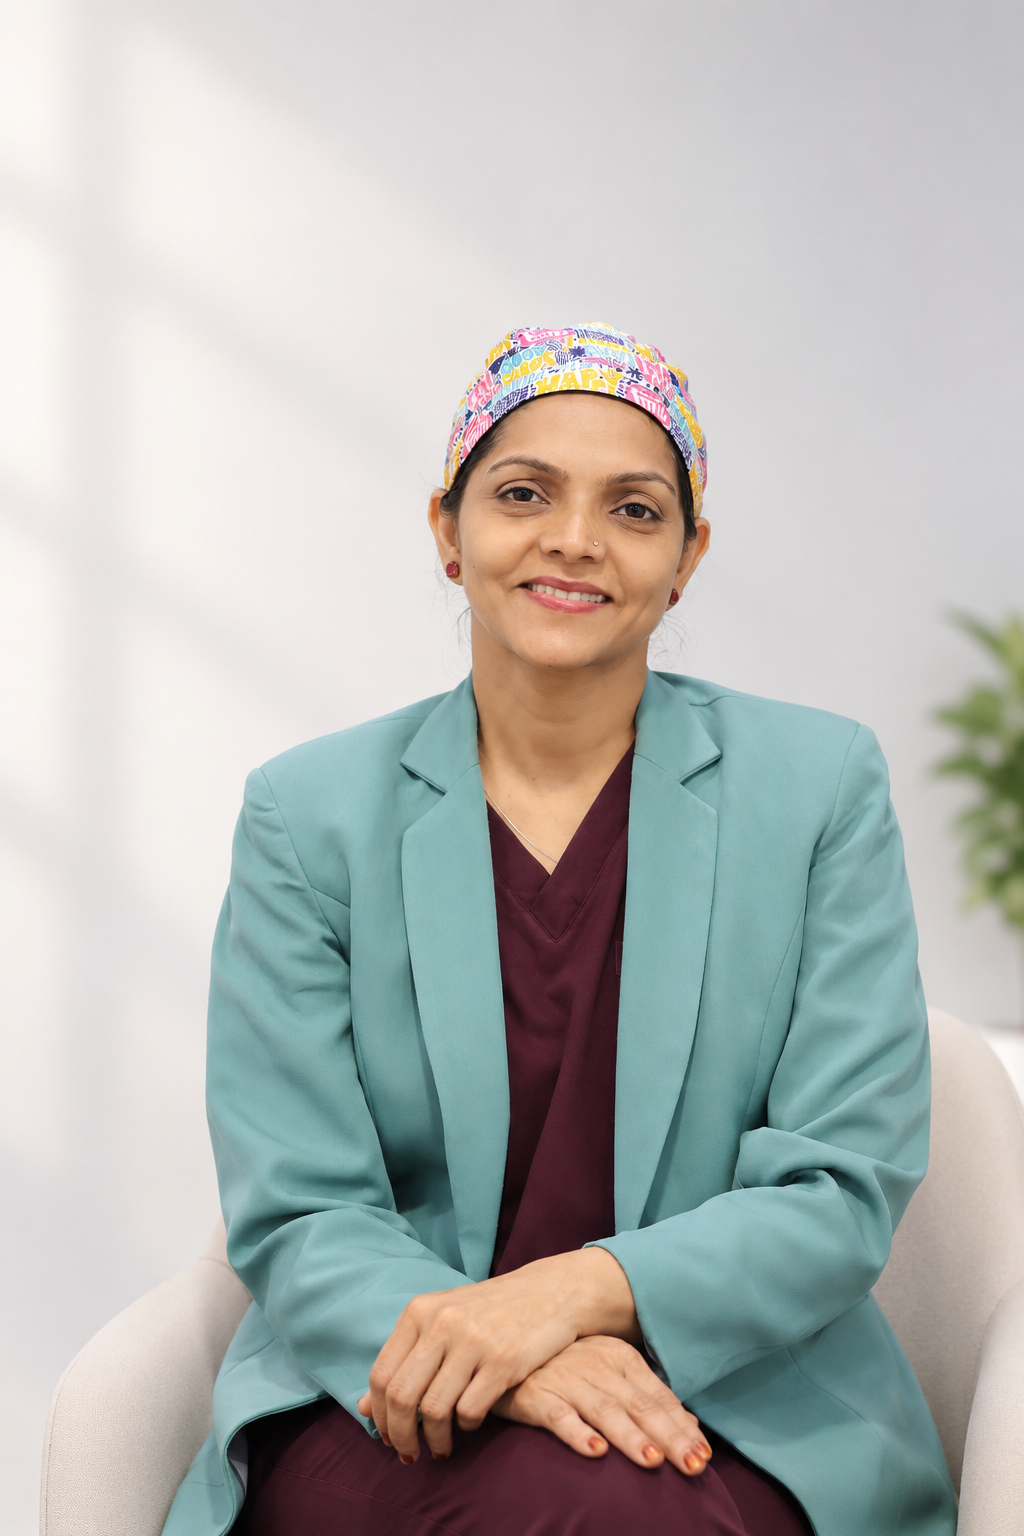
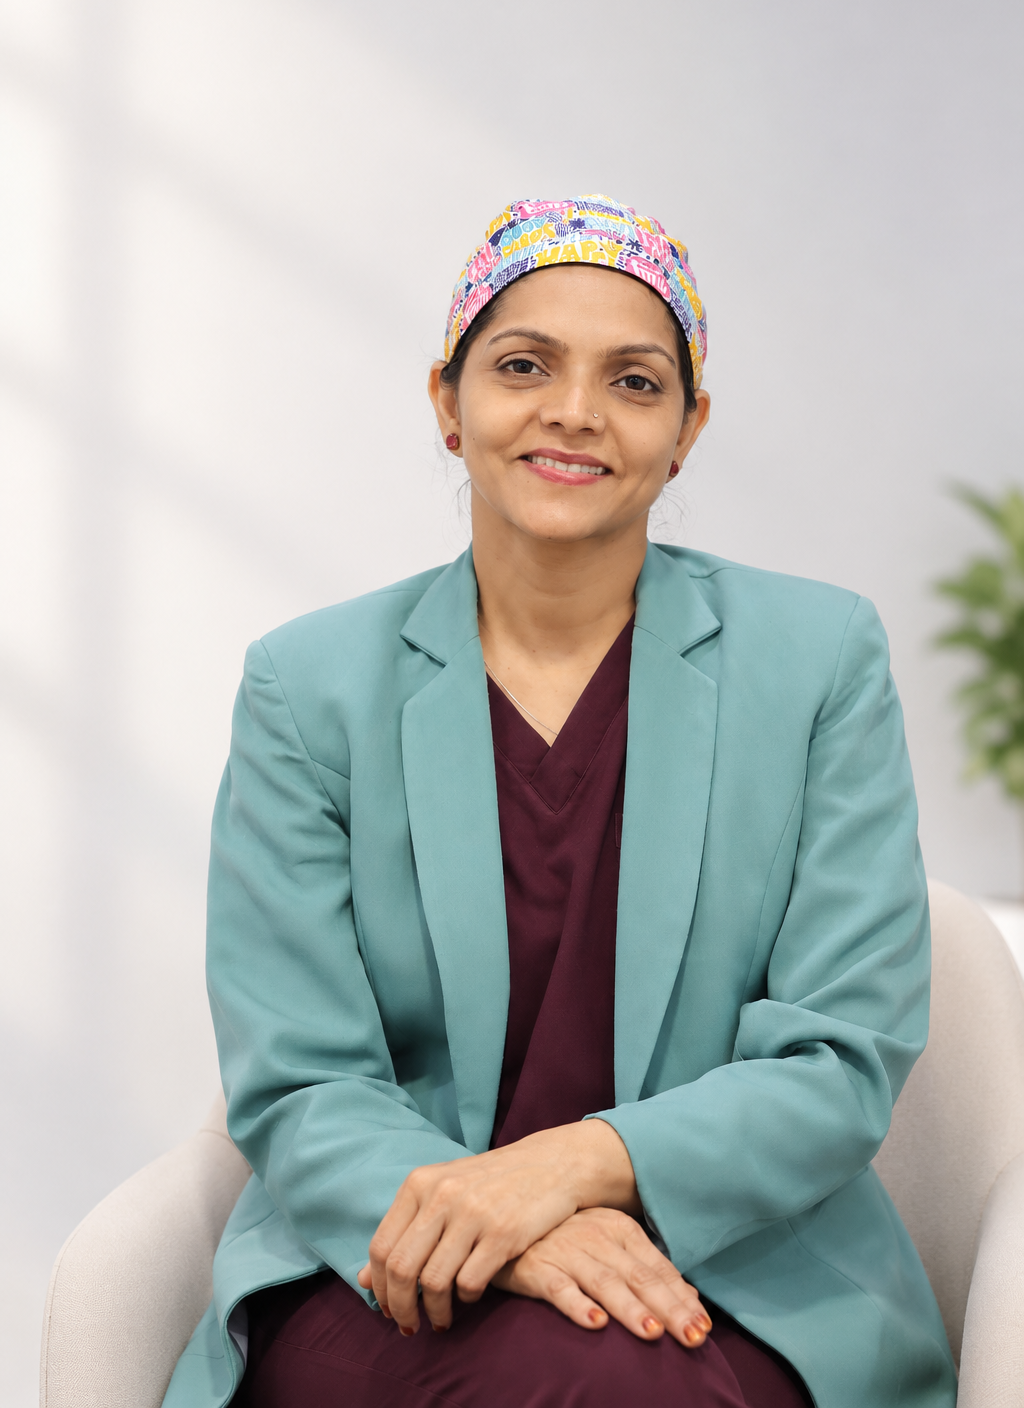
UI update

Changed region(s): [[0.1875, 0.125, 1.0, 0.9688], [0.875, 0.875, 0.9062, 0.9062]]

diff --git a/src/index.css b/src/index.css
@@ -234,11 +234,10 @@ textarea:focus-visible {
   letter-spacing: -0.01em;
 }
 .nav-logo img {
-  width: 36px;
-  height: 36px;
-  border-radius: 50%;
-  object-fit: cover;
+  height: 56px;
+  width: auto;
   flex-shrink: 0;
+  object-fit: contain;
 }
 .nav-logo span { color: var(--ink); }
 
@@ -334,51 +333,45 @@ textarea:focus-visible {
   }
 }
 
-/* ===== Hero — simple, modern, airy ===== */
+/* ===== Hero — fullscreen background, face on right ===== */
 .hero {
   min-height: 100svh;
   display: flex;
   align-items: center;
-  background: var(--paper);
+  background: var(--ink) url('/images/banner.jpg') 95% center / 105% auto no-repeat;
   position: relative;
   overflow: hidden;
   padding-top: 120px;
   padding-bottom: 96px;
 }
 
-/* Floral corner decorations — same pattern top-right (mirrored) + bottom-left */
+/* Hero visual — hidden everywhere (photo used as bg on all screens) */
+.hero-visual {
+  display: none;
+}
+.hero-image-wrapper {
+  position: relative;
+  width: 100%;
+  max-width: 460px;
+  aspect-ratio: 4 / 5;
+  border-radius: var(--radius-md);
+  overflow: hidden;
+  background: var(--accent-soft);
+  box-shadow: var(--shadow-md);
+  border: 1px solid var(--line);
+}
+.hero-image-wrapper img {
+  width: 100%;
+  height: 100%;
+  object-fit: cover;
+}
+
+/* Left-to-right gradient: dark on left for text, fading transparent on right where her face is */
 .hero::before {
   content: '';
   position: absolute;
-  top: -6%;
-  right: -3%;
-  width: 340px;
-  max-width: 38vw;
-  height: 340px;
-  max-height: 38vw;
-  background-image: url('/images/floral-corner-2.png');
-  background-repeat: no-repeat;
-  background-position: bottom right;
-  background-size: contain;
-  opacity: 0.9;
-  pointer-events: none;
-  z-index: 0;
-  transform: scale(-1, -1);
-}
-.hero::after {
-  content: '';
-  position: absolute;
-  bottom: -6%;
-  left: -3%;
-  width: 340px;
-  max-width: 38vw;
-  height: 340px;
-  max-height: 38vw;
-  background-image: url('/images/floral-corner-2.png');
-  background-repeat: no-repeat;
-  background-position: bottom left;
-  background-size: contain;
-  opacity: 0.9;
+  inset: 0;
+  background: linear-gradient(90deg, rgba(26, 37, 51, 0.88) 0%, rgba(26, 37, 51, 0.72) 35%, rgba(26, 37, 51, 0.35) 55%, rgba(26, 37, 51, 0.05) 100%);
   pointer-events: none;
   z-index: 0;
 }
@@ -395,11 +388,20 @@ textarea:focus-visible {
   .hero-inner { grid-template-columns: 1.1fr 0.9fr; gap: 96px; }
 }
 @media (max-width: 767px) {
-  .hero::before,
-  .hero::after {
-    width: 180px;
-    height: 180px;
-    opacity: 0.55;
+  .hero {
+    background: var(--ink) url('/images/mobile-portrait.png') center top / 120% auto no-repeat;
+    align-items: flex-end;
+    padding-top: 110px;
+    padding-bottom: 48px;
+  }
+  .hero::before {
+    background: linear-gradient(180deg, rgba(26, 37, 51, 0.05) 0%, rgba(26, 37, 51, 0.15) 30%, rgba(26, 37, 51, 0.65) 60%, rgba(26, 37, 51, 0.92) 100%);
+  }
+  .hero-visual { display: none; }
+  .hero-image-wrapper { display: none; }
+  .hero-content {
+    order: 0;
+    padding-top: 310px;
   }
   .gallery::after,
   .contact::before {
@@ -409,34 +411,38 @@ textarea:focus-visible {
   }
 }
 
-.hero-content { position: relative; z-index: 1; }
+.hero-content { position: relative; z-index: 1; max-width: 640px; }
 
 .hero-title {
-  font-family: var(--font-serif);
-  font-size: clamp(2.5rem, 6vw, 4.25rem);
-  font-weight: 600;
-  line-height: 1.08;
-  color: var(--ink);
+  font-family: 'Playfair Display', Georgia, 'Times New Roman', serif;
+  font-size: clamp(2rem, 5vw, 4.25rem);
+  font-weight: 560;
+  font-optical-sizing: auto;
+  line-height: 1.05;
+  color: var(--white);
   margin-bottom: 26px;
-  letter-spacing: -0.025em;
+  letter-spacing: -0.02em;
+  text-shadow: 0 2px 16px rgba(26, 37, 51, 0.4);
 }
 
 .hero-description {
-  font-size: 1.12rem;
-  color: var(--ink-soft);
+  font-size: 1.05rem;
+  color: rgba(255, 255, 255, 0.92);
   line-height: 1.8;
   margin-bottom: 28px;
   max-width: 520px;
+  text-shadow: 0 1px 8px rgba(26, 37, 51, 0.3);
 }
 
 .hero-points {
-  font-size: 1.12rem;
+  font-size: 1.05rem;
   font-family: var(--font-serif);
   font-style: italic;
   color: var(--accent);
   line-height: 1.8;
   margin-bottom: 36px;
   max-width: 520px;
+  text-shadow: 0 1px 8px rgba(26, 37, 51, 0.3);
 }
 
 .hero-actions {
@@ -445,28 +451,13 @@ textarea:focus-visible {
   gap: 14px;
 }
 
-.hero-visual {
-  position: relative;
-  display: flex;
-  justify-content: center;
-  align-items: center;
+.hero .btn-outline {
+  color: var(--white);
+  border-color: rgba(255, 255, 255, 0.5);
 }
-
-.hero-image-wrapper {
-  position: relative;
-  width: 100%;
-  max-width: 460px;
-  aspect-ratio: 4 / 5;
-  border-radius: var(--radius-md);
-  overflow: hidden;
-  background: var(--accent-soft);
-  box-shadow: var(--shadow-md);
-  border: 1px solid var(--line);
-}
-.hero-image-wrapper img {
-  width: 100%;
-  height: 100%;
-  object-fit: cover;
+.hero .btn-outline:hover {
+  border-color: var(--white);
+  background: rgba(255, 255, 255, 0.12);
 }
 
 /* ===== Stats ===== */
@@ -1425,7 +1416,7 @@ textarea:focus-visible {
   margin-bottom: 16px;
   display: inline-flex;
 }
-.footer-brand .nav-logo img { width: 40px; height: 40px; }
+.footer-brand .nav-logo img { height: 80px; width: auto; }
 .footer-brand p {
   font-size: 0.9rem;
   line-height: 1.8;
@@ -1628,8 +1619,7 @@ textarea:focus-visible {
 .hero-title,
 .hero-description,
 .hero-points,
-.hero-actions,
-.hero-image-wrapper {
+.hero-actions {
   opacity: 0;
   transform: translateY(28px);
   animation: heroIn 0.9s cubic-bezier(0.22, 1, 0.36, 1) forwards;
@@ -1638,7 +1628,11 @@ textarea:focus-visible {
 .hero-description { animation-delay: 0.24s; }
 .hero-points { animation-delay: 0.38s; }
 .hero-actions { animation-delay: 0.5s; }
-.hero-image-wrapper { animation-delay: 0.3s; }
+.hero-image-wrapper {
+  opacity: 0;
+  transform: translateY(28px);
+  animation: heroIn 0.9s cubic-bezier(0.22, 1, 0.36, 1) 0.3s forwards;
+}
 
 @keyframes heroIn {
   from { opacity: 0; transform: translateY(28px); }

diff --git a/index.html b/index.html
@@ -8,7 +8,7 @@
     <title>Dr. Shabnam's — Consultant Gynaec & Fertility Specialist</title>
     <link rel="preconnect" href="https://fonts.googleapis.com" />
     <link rel="preconnect" href="https://fonts.gstatic.com" crossorigin />
-    <link href="https://fonts.googleapis.com/css2?family=Fraunces:opsz,wght@9..144,400;9..144,500;9..144,600;9..144,700&family=Plus+Jakarta+Sans:wght@300;400;500;600&display=swap" rel="stylesheet" />
+    <link href="https://fonts.googleapis.com/css2?family=Fraunces:opsz,wght@9..144,400;9..144,500;9..144,600;9..144,700&family=Playfair+Display:wght@400;500;600;700&family=Plus+Jakarta+Sans:wght@300;400;500;600&display=swap" rel="stylesheet" />
     <link rel="stylesheet" href="https://cdnjs.cloudflare.com/ajax/libs/font-awesome/6.5.1/css/all.min.css" />
   </head>
   <body>

diff --git a/src/components/Footer.jsx b/src/components/Footer.jsx
@@ -5,8 +5,7 @@ function Footer() {
         <div className="footer-grid">
           <div className="footer-brand">
             <a href="#home" className="nav-logo">
-              <img src="/images/logo-round.jpg?v=20260919205610" alt="Dr. Shabnam's logo" />
-              Dr.Shabnam's Fertility & Gynec Center
+              <img src="/images/sfgc-logo.png" alt="Dr. Shabnam's Fertility & Gynec Centre" />
             </a>
             <p>Compassionate gynaecology and fertility care for the people of Pondicherry and beyond. Your journey to parenthood begins here.</p>
           </div>

diff --git a/src/components/Nav.jsx b/src/components/Nav.jsx
@@ -32,8 +32,7 @@ function Nav() {
     <nav className={`nav ${scrolled ? 'scrolled' : ''}`} role="navigation" aria-label="Main navigation">
       <div className="nav-inner">
         <a href="#home" className="nav-logo" onClick={(e) => handleNavClick(e, '#home')}>
-          <img src="/images/logo-round.jpg?v=20260919205610" alt="Dr. Shabnam's logo" />
-          Dr.Shabnam's
+          <img src="/images/sfgc-logo.png" alt="Dr. Shabnam's Fertility & Gynec Centre" />
         </a>
         <button
           className={`nav-toggle ${isOpen ? 'active' : ''}`}

diff --git a/src/components/Hero.jsx b/src/components/Hero.jsx
@@ -22,7 +22,7 @@ function Hero() {
           </div>
           <div className="hero-visual">
             <div className="hero-image-wrapper">
-              <img src="/images/banner.jpg?v=20260919205610" alt="Dr. Shabnam's Fertility & Gynec Centre — modern clinic facility" loading="eager" />
+              <img src="/images/mobile-portrait.png" alt="Dr. Shabnam" loading="eager" />
             </div>
           </div>
         </div>

diff --git a/src/components/Gallery.jsx b/src/components/Gallery.jsx
@@ -20,7 +20,7 @@ function Gallery() {
   const positions = [
     { top: '6%', left: '3%' }, //2011
     { top: '5%', left: '30%' }, //2013
-    { top: '-1%', left: '62%' }, //2015
+    { top: '1%', left: '62%' }, //2015
     //{ top: '16%', left: '71%' },
     { top: '19%', left: '81%' }, //2017
     { top: '36%', left: '51%' }, //2019
